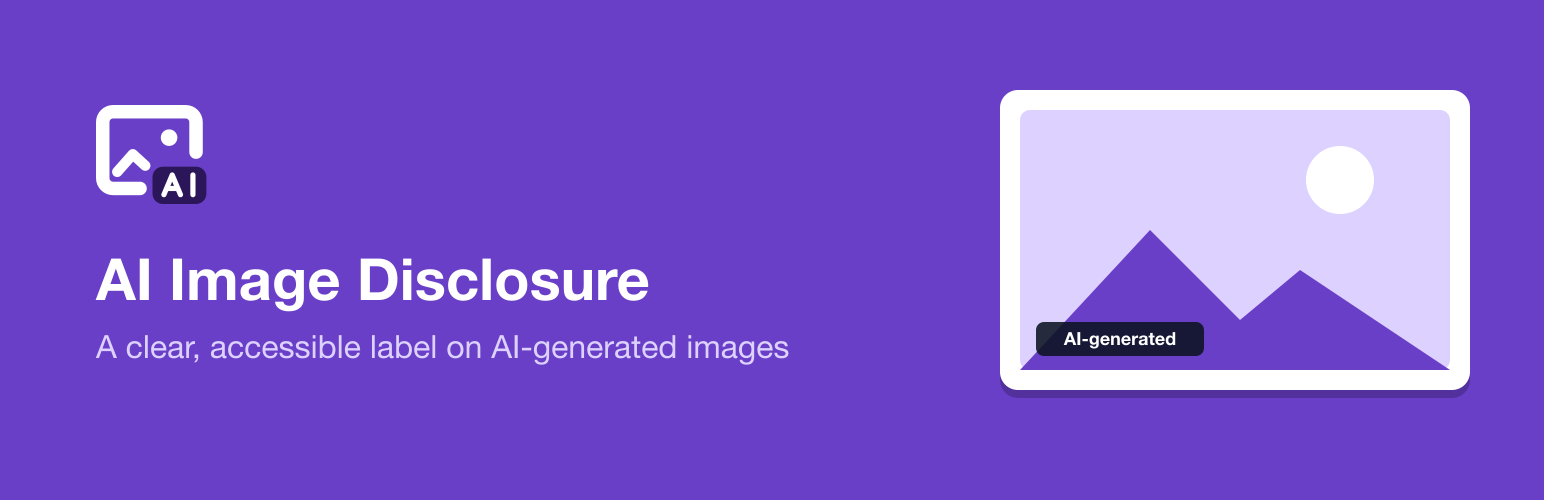
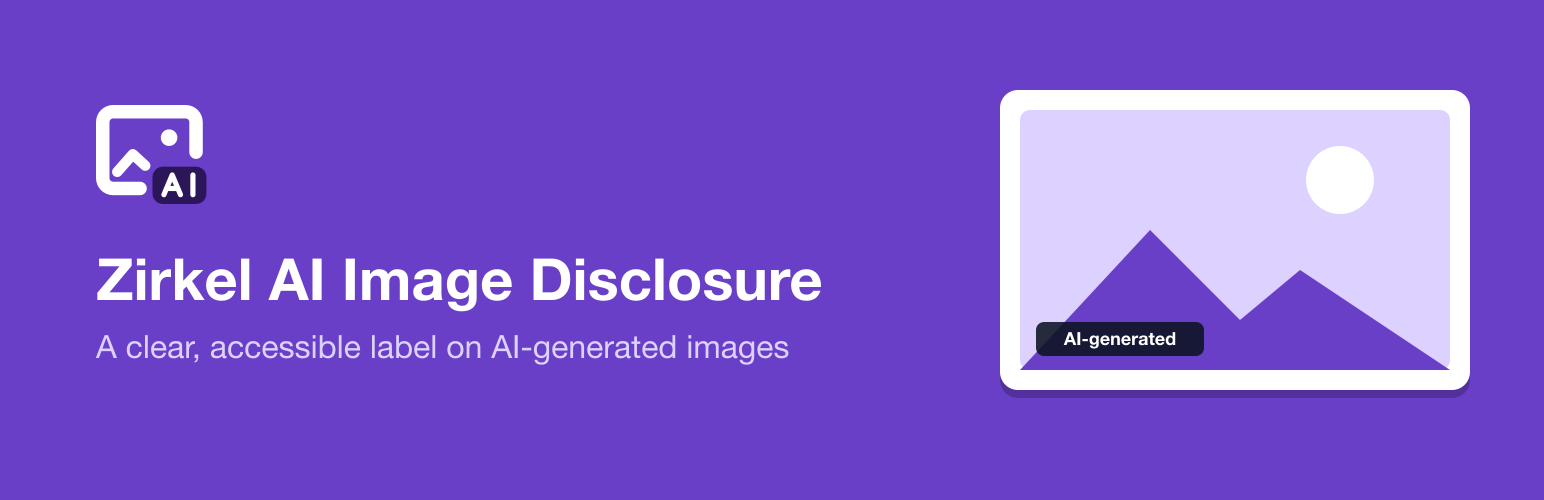
:truck: Rename the plugin to Zirkel AI Image Disclosure
The wordpress.org directory does not accept generic names such as this one. The plugin is now named Zirkel AI Image Disclosure, with the slug and text domain zirkel-ai-image-disclosure: main file, translation files, script and style handles and build scripts follow. Meta and option keys keep the aiid prefix, the GitHub repository keeps its name, and the banner shows the new name.

Changed region(s): [[0.0622, 0.51, 0.5285, 0.63]]

diff --git a/assets/css/badge.css b/assets/css/badge.css
@@ -1,5 +1,5 @@
 /*
- * AI Image Disclosure - the label on marked images.
+ * Zirkel AI Image Disclosure - the label on marked images.
  *
  * Positioned by CSS alone, inside the element that frames the image, so it
  * stays in its corner at every crop and width without any script.

diff --git a/src/Settings.php b/src/Settings.php
@@ -24,7 +24,7 @@ final class Settings
     {
         $label = trim((string) get_option(self::LABEL, ''));
 
-        return $label !== '' ? $label : __('AI-generated', 'ai-image-disclosure');
+        return $label !== '' ? $label : __('AI-generated', 'zirkel-ai-image-disclosure');
     }
 
     public static function defaultPosition(): Position
@@ -80,16 +80,16 @@ final class Settings
 
         add_settings_section(
             'aiid',
-            __('AI-generated images', 'ai-image-disclosure'),
+            __('AI-generated images', 'zirkel-ai-image-disclosure'),
             static function (): void {
-                echo '<p>'.esc_html__('Images marked as AI-generated in the media library show a small label wherever they appear in a block.', 'ai-image-disclosure').'</p>';
+                echo '<p>'.esc_html__('Images marked as AI-generated in the media library show a small label wherever they appear in a block.', 'zirkel-ai-image-disclosure').'</p>';
             },
             'media'
         );
 
-        add_settings_field(self::LABEL, __('Label text', 'ai-image-disclosure'), [$this, 'renderLabel'], 'media', 'aiid', ['label_for' => self::LABEL]);
-        add_settings_field(self::POSITION, __('Default position', 'ai-image-disclosure'), [$this, 'renderPosition'], 'media', 'aiid', ['label_for' => self::POSITION]);
-        add_settings_field('aiid_options', __('Options', 'ai-image-disclosure'), [$this, 'renderToggles'], 'media', 'aiid');
+        add_settings_field(self::LABEL, __('Label text', 'zirkel-ai-image-disclosure'), [$this, 'renderLabel'], 'media', 'aiid', ['label_for' => self::LABEL]);
+        add_settings_field(self::POSITION, __('Default position', 'zirkel-ai-image-disclosure'), [$this, 'renderPosition'], 'media', 'aiid', ['label_for' => self::POSITION]);
+        add_settings_field('aiid_options', __('Options', 'zirkel-ai-image-disclosure'), [$this, 'renderToggles'], 'media', 'aiid');
     }
 
     public function renderLabel(): void
@@ -98,8 +98,8 @@ final class Settings
             '<input type="text" id="%1$s" name="%1$s" value="%2$s" class="regular-text" placeholder="%3$s"><p class="description">%4$s</p>',
             esc_attr(self::LABEL),
             esc_attr((string) get_option(self::LABEL, '')),
-            esc_attr__('AI-generated', 'ai-image-disclosure'),
-            esc_html__('Shown on every marked image. Leave empty for the translated default. Keep it plain: the label has to be understood at a glance.', 'ai-image-disclosure')
+            esc_attr__('AI-generated', 'zirkel-ai-image-disclosure'),
+            esc_html__('Shown on every marked image. Leave empty for the translated default. Keep it plain: the label has to be understood at a glance.', 'zirkel-ai-image-disclosure')
         );
     }
 
@@ -116,15 +116,15 @@ final class Settings
             );
         }
 
-        echo '</select><p class="description">'.esc_html__('Applies to every image left on "Default". Changing it moves all of those labels at once.', 'ai-image-disclosure').'</p>';
+        echo '</select><p class="description">'.esc_html__('Applies to every image left on "Default". Changing it moves all of those labels at once.', 'zirkel-ai-image-disclosure').'</p>';
     }
 
     public function renderToggles(): void
     {
         $toggles = [
-            self::DETECT => [self::detectOnUpload(), __('Mark uploads whose file declares itself as AI-generated (IPTC or C2PA)', 'ai-image-disclosure')],
-            self::FILENAME => [self::detectByFilename(), __('Also mark uploads whose file name contains "ai" as a word of its own', 'ai-image-disclosure')],
-            self::ALT => [self::appendToAlt(), __('Add the label to the alternative text, so screen readers announce it', 'ai-image-disclosure')],
+            self::DETECT => [self::detectOnUpload(), __('Mark uploads whose file declares itself as AI-generated (IPTC or C2PA)', 'zirkel-ai-image-disclosure')],
+            self::FILENAME => [self::detectByFilename(), __('Also mark uploads whose file name contains "ai" as a word of its own', 'zirkel-ai-image-disclosure')],
+            self::ALT => [self::appendToAlt(), __('Add the label to the alternative text, so screen readers announce it', 'zirkel-ai-image-disclosure')],
         ];
 
         echo '<fieldset>';

diff --git a/src/Attachment/Fields.php b/src/Attachment/Fields.php
@@ -33,14 +33,14 @@ final class Fields
         $name = "attachments[{$post->ID}]";
 
         $fields['aiid_generated'] = [
-            'label' => __('AI-generated', 'ai-image-disclosure'),
+            'label' => __('AI-generated', 'zirkel-ai-image-disclosure'),
             'input' => 'html',
             'html' => sprintf(
                 '<label><input type="checkbox" name="%s[aiid_generated]" value="1"%s> %s</label>',
                 esc_attr($name),
                 checked(Flag::isGenerated($post->ID), true, false),
                 /* translators: %s: label text shown on the image */
-                esc_html(sprintf(__('Show the label "%s" on this image', 'ai-image-disclosure'), Settings::label()))
+                esc_html(sprintf(__('Show the label "%s" on this image', 'zirkel-ai-image-disclosure'), Settings::label()))
             ),
             'helps' => $this->sourceHint($post->ID),
         ];
@@ -48,7 +48,7 @@ final class Fields
         $options = sprintf(
             '<option value="">%s</option>',
             /* translators: %s: the default position, e.g. "Top right" */
-            esc_html(sprintf(__('Default (%s)', 'ai-image-disclosure'), Settings::defaultPosition()->label()))
+            esc_html(sprintf(__('Default (%s)', 'zirkel-ai-image-disclosure'), Settings::defaultPosition()->label()))
         );
 
         foreach (Position::cases() as $position) {
@@ -61,7 +61,7 @@ final class Fields
         }
 
         $fields['aiid_position'] = [
-            'label' => __('Label position', 'ai-image-disclosure'),
+            'label' => __('Label position', 'zirkel-ai-image-disclosure'),
             'input' => 'html',
             'html' => sprintf('<select name="%s[aiid_position]">%s</select>', esc_attr($name), $options),
         ];
@@ -103,14 +103,14 @@ final class Fields
     private function sourceHint(int $id): string
     {
         if (! Flag::isGenerated($id)) {
-            return __('Required for realistic AI images. Ticked automatically on upload when the file declares itself as AI-generated.', 'ai-image-disclosure');
+            return __('Required for realistic AI images. Ticked automatically on upload when the file declares itself as AI-generated.', 'zirkel-ai-image-disclosure');
         }
 
         return match (Flag::source($id)) {
-            'iptc' => __('Ticked on upload: the file declares itself as AI-generated in its IPTC metadata.', 'ai-image-disclosure'),
-            'c2pa' => __('Ticked on upload: the file carries Content Credentials (C2PA) stating AI generation.', 'ai-image-disclosure'),
-            'filename' => __('Ticked on upload because of the file name. Please check.', 'ai-image-disclosure'),
-            default => __('Marked by hand.', 'ai-image-disclosure'),
+            'iptc' => __('Ticked on upload: the file declares itself as AI-generated in its IPTC metadata.', 'zirkel-ai-image-disclosure'),
+            'c2pa' => __('Ticked on upload: the file carries Content Credentials (C2PA) stating AI generation.', 'zirkel-ai-image-disclosure'),
+            'filename' => __('Ticked on upload because of the file name. Please check.', 'zirkel-ai-image-disclosure'),
+            default => __('Marked by hand.', 'zirkel-ai-image-disclosure'),
         };
     }
 }

diff --git a/src/Attachment/Library.php b/src/Attachment/Library.php
@@ -30,7 +30,7 @@ final class Library
      */
     public function columns(array $columns): array
     {
-        $columns['aiid'] = __('AI-generated', 'ai-image-disclosure');
+        $columns['aiid'] = __('AI-generated', 'zirkel-ai-image-disclosure');
 
         return $columns;
     }
@@ -43,7 +43,7 @@ final class Library
 
         printf(
             '<span class="dashicons dashicons-yes" aria-hidden="true"></span><span class="screen-reader-text">%s</span>',
-            esc_html__('Marked as AI-generated', 'ai-image-disclosure')
+            esc_html__('Marked as AI-generated', 'zirkel-ai-image-disclosure')
         );
     }
 
@@ -53,8 +53,8 @@ final class Library
      */
     public function actions(array $actions): array
     {
-        $actions[self::MARK] = __('Mark as AI-generated', 'ai-image-disclosure');
-        $actions[self::UNMARK] = __('Remove AI marking', 'ai-image-disclosure');
+        $actions[self::MARK] = __('Mark as AI-generated', 'zirkel-ai-image-disclosure');
+        $actions[self::UNMARK] = __('Remove AI marking', 'zirkel-ai-image-disclosure');
 
         return $actions;
     }
@@ -95,9 +95,9 @@ final class Library
 
         $message = $mark
             /* translators: %d: number of images */
-            ? _n('%d image marked as AI-generated.', '%d images marked as AI-generated.', $done, 'ai-image-disclosure')
+            ? _n('%d image marked as AI-generated.', '%d images marked as AI-generated.', $done, 'zirkel-ai-image-disclosure')
             /* translators: %d: number of images */
-            : _n('AI marking removed from %d image.', 'AI marking removed from %d images.', $done, 'ai-image-disclosure');
+            : _n('AI marking removed from %d image.', 'AI marking removed from %d images.', $done, 'zirkel-ai-image-disclosure');
 
         printf('<div class="notice notice-success is-dismissible"><p>%s</p></div>', esc_html(sprintf($message, $done)));
     }

diff --git a/zirkel-ai-image-disclosure.php b/zirkel-ai-image-disclosure.php
@@ -1,7 +1,7 @@
 <?php
 
 /**
- * Plugin Name:       AI Image Disclosure
+ * Plugin Name:       Zirkel AI Image Disclosure
  * Plugin URI:        https://github.com/zirkeldesign/ai-image-disclosure
  * Description:       Label AI-generated images with a small, accessible badge. CSS only, detects IPTC and C2PA provenance on upload.
  * Version:           1.0.0
@@ -9,7 +9,7 @@
  * Author URI:        https://zirkel.design
  * License:           GPL-2.0-or-later
  * License URI:       https://www.gnu.org/licenses/gpl-2.0.html
- * Text Domain:       ai-image-disclosure
+ * Text Domain:       zirkel-ai-image-disclosure
  * Domain Path:       /languages
  * Requires PHP:      8.3
  * Requires at least: 6.6
@@ -34,7 +34,7 @@ if (file_exists(AI_IMAGE_DISCLOSURE_DIR.'vendor/autoload.php')) {
 
 /*
  * load_plugin_textdomain() is intentionally not called: WordPress 4.6+ loads
- * `ai-image-disclosure-{locale}.mo` from /languages/ by itself.
+ * `zirkel-ai-image-disclosure-{locale}.mo` from /languages/ by itself.
  */
 add_action('plugins_loaded', static function (): void {
     Plugin::boot();

diff --git a/src/Position.php b/src/Position.php
@@ -14,10 +14,10 @@ enum Position: string
     public function label(): string
     {
         return match ($this) {
-            self::TopRight => __('Top right', 'ai-image-disclosure'),
-            self::TopLeft => __('Top left', 'ai-image-disclosure'),
-            self::BottomRight => __('Bottom right', 'ai-image-disclosure'),
-            self::BottomLeft => __('Bottom left', 'ai-image-disclosure'),
+            self::TopRight => __('Top right', 'zirkel-ai-image-disclosure'),
+            self::TopLeft => __('Top left', 'zirkel-ai-image-disclosure'),
+            self::BottomRight => __('Bottom right', 'zirkel-ai-image-disclosure'),
+            self::BottomLeft => __('Bottom left', 'zirkel-ai-image-disclosure'),
         };
     }
 }

diff --git a/src/Frontend/Badge.php b/src/Frontend/Badge.php
@@ -30,7 +30,7 @@ final class Badge
     {
         // Small and loaded everywhere: enqueued only on a hit, it would print in
         // the footer of a classic theme and the label would flash unstyled.
-        wp_enqueue_style('ai-image-disclosure', AI_IMAGE_DISCLOSURE_URL.'assets/css/badge.css', [], AI_IMAGE_DISCLOSURE_VERSION);
+        wp_enqueue_style('zirkel-ai-image-disclosure', AI_IMAGE_DISCLOSURE_URL.'assets/css/badge.css', [], AI_IMAGE_DISCLOSURE_VERSION);
     }
 
     /**

diff --git a/get-version.php b/get-version.php
@@ -3,7 +3,7 @@
 /**
  * Extract the plugin version from the main file header for build scripts.
  */
-$content = file_get_contents(__DIR__.'/ai-image-disclosure.php');
+$content = file_get_contents(__DIR__.'/zirkel-ai-image-disclosure.php');
 if (preg_match('/Version:\s*([0-9.]+)/', $content, $matches)) {
     echo $matches[1];
 } else {

diff --git a/CHANGELOG.md b/CHANGELOG.md
@@ -4,6 +4,7 @@ Technical changes for developers. The user-facing changelog is in `readme.txt`.
 
 ## 1.0.0
 
+- Plugin name "Zirkel AI Image Disclosure", slug and text domain `zirkel-ai-image-disclosure`: the wordpress.org directory does not accept generic names. Meta and option keys keep the `aiid` prefix.
 - Attachment meta `_aiid_generated`, `_aiid_position`, `_aiid_source` with fields in the media modal and edit screen, a list view column and two bulk actions.
 - Settings on Settings > Media: `aiid_label`, `aiid_position`, and the toggles `aiid_detect`, `aiid_filename`, `aiid_alt` stored as "1"/"0", because `update_option(false)` on a missing option stores nothing.
 - `Detection\Provenance`: IPTC Digital Source Type in XMP packets and C2PA manifests (JUMBF `jumd` labelled `c2pa`), reading the first 2 MB and the last 256 KB of the file.

diff --git a/README.md b/README.md
@@ -1,4 +1,4 @@
-# AI Image Disclosure
+# Zirkel AI Image Disclosure
 
 Labels AI-generated images in WordPress with a small, accessible badge. CSS only, no frontend JavaScript; recognises AI images from IPTC and C2PA metadata on upload. The wordpress.org description is in [readme.txt](readme.txt).
 
